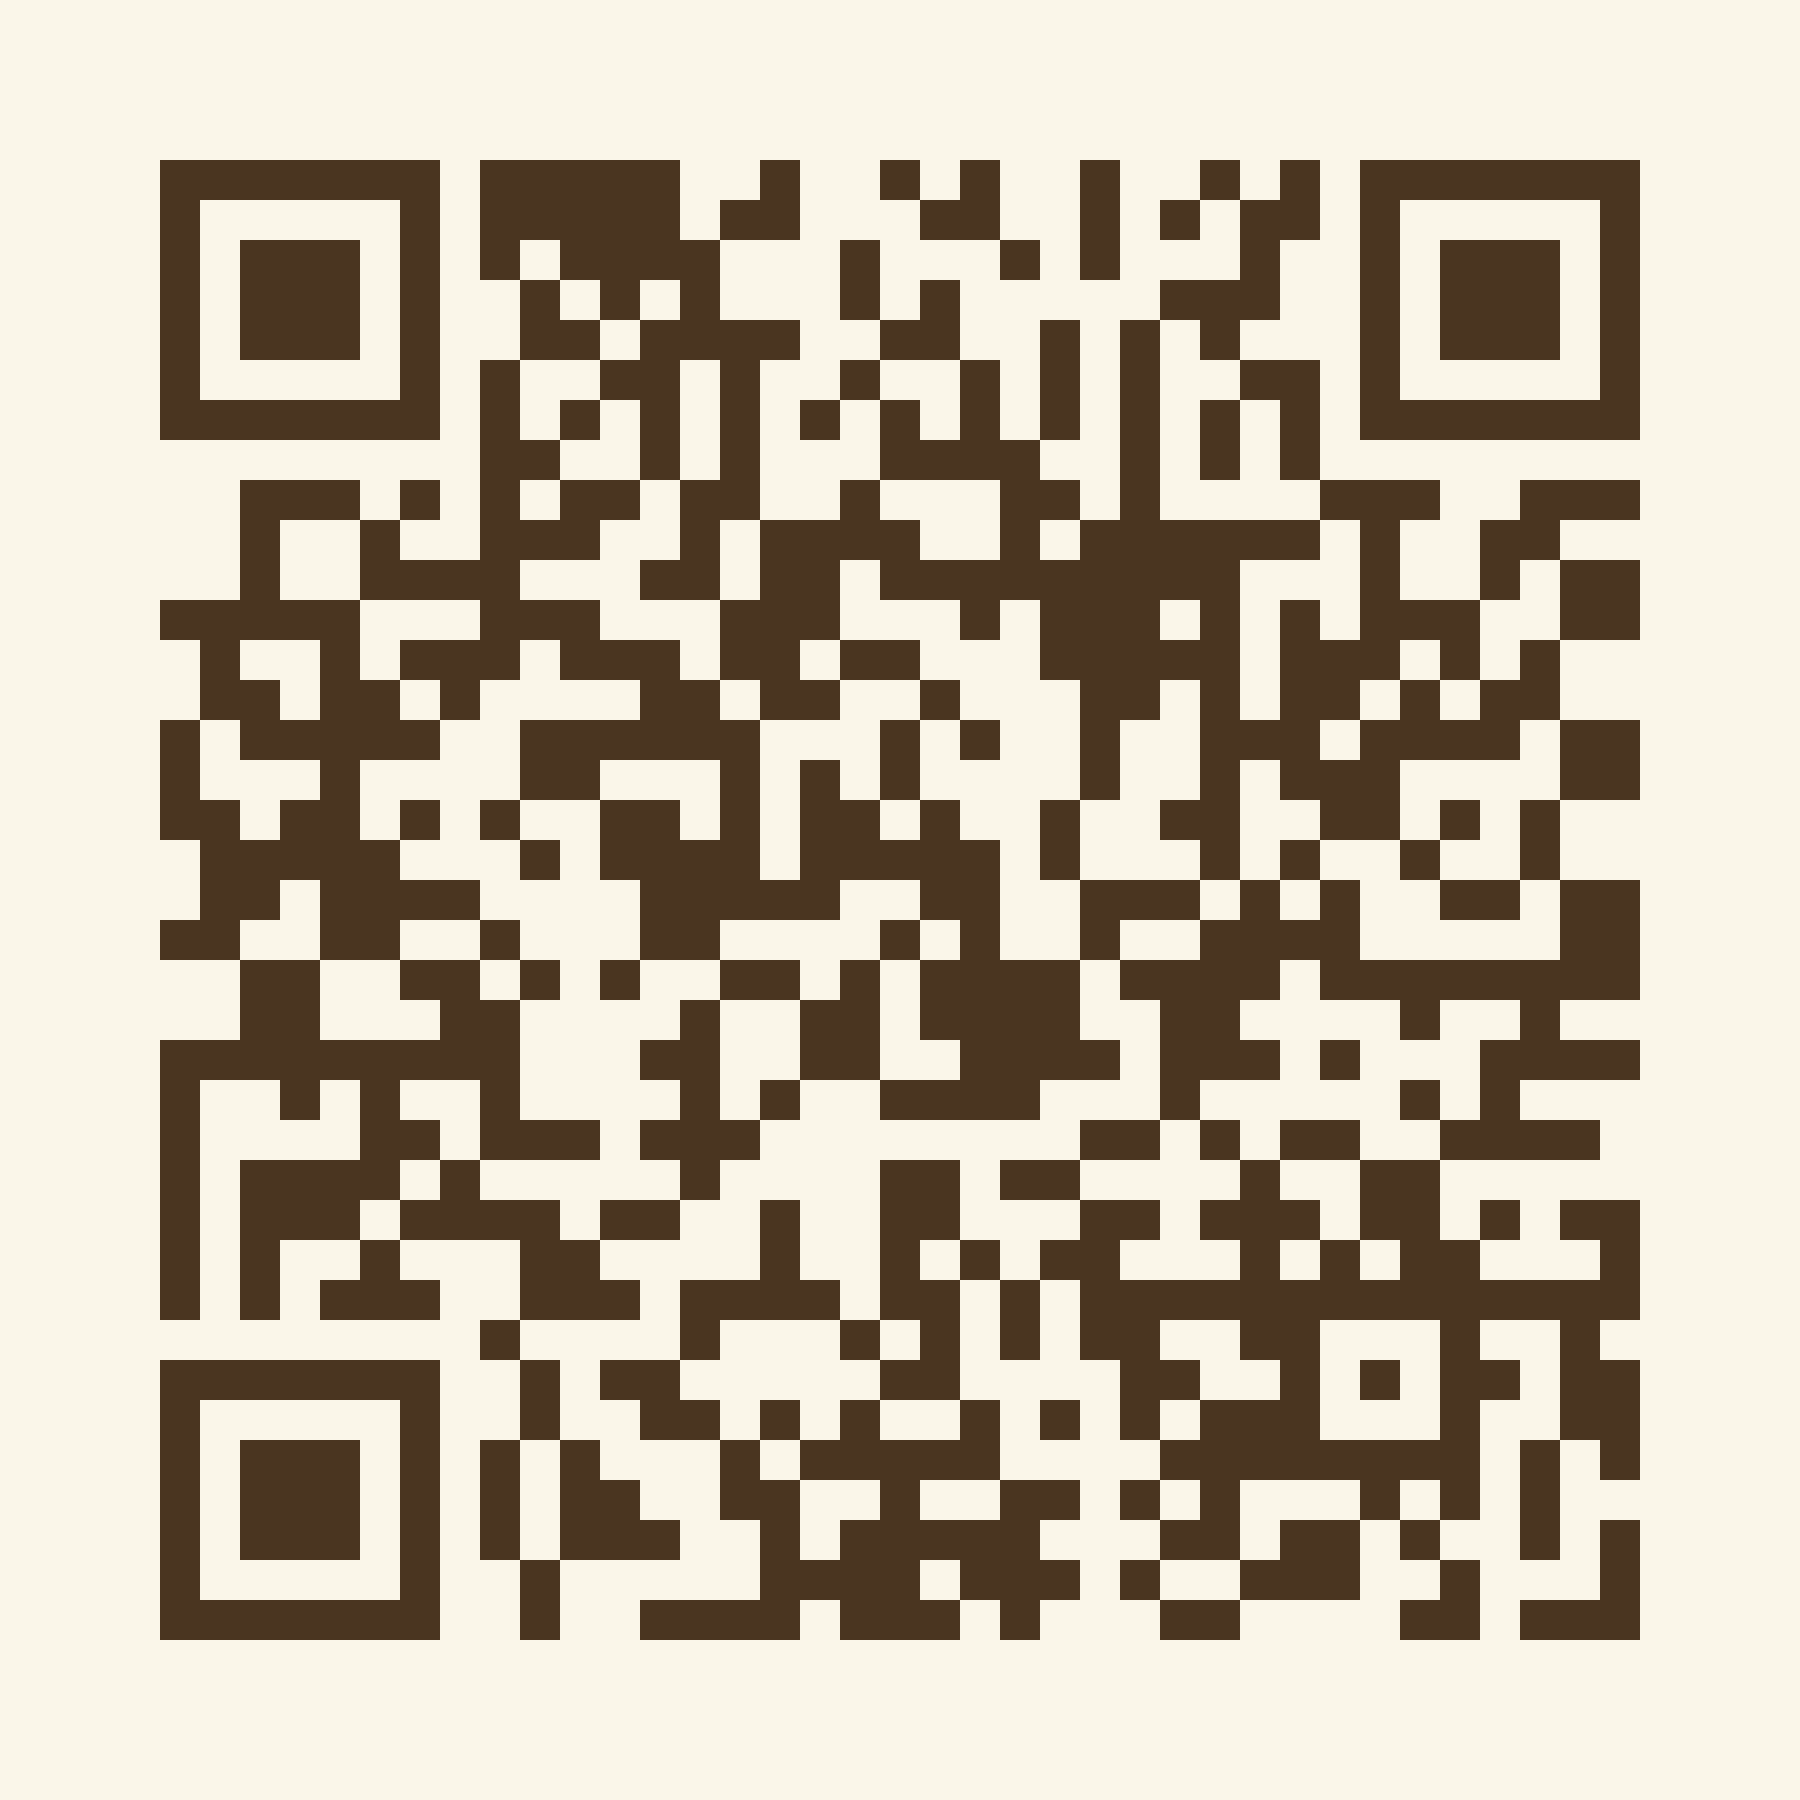
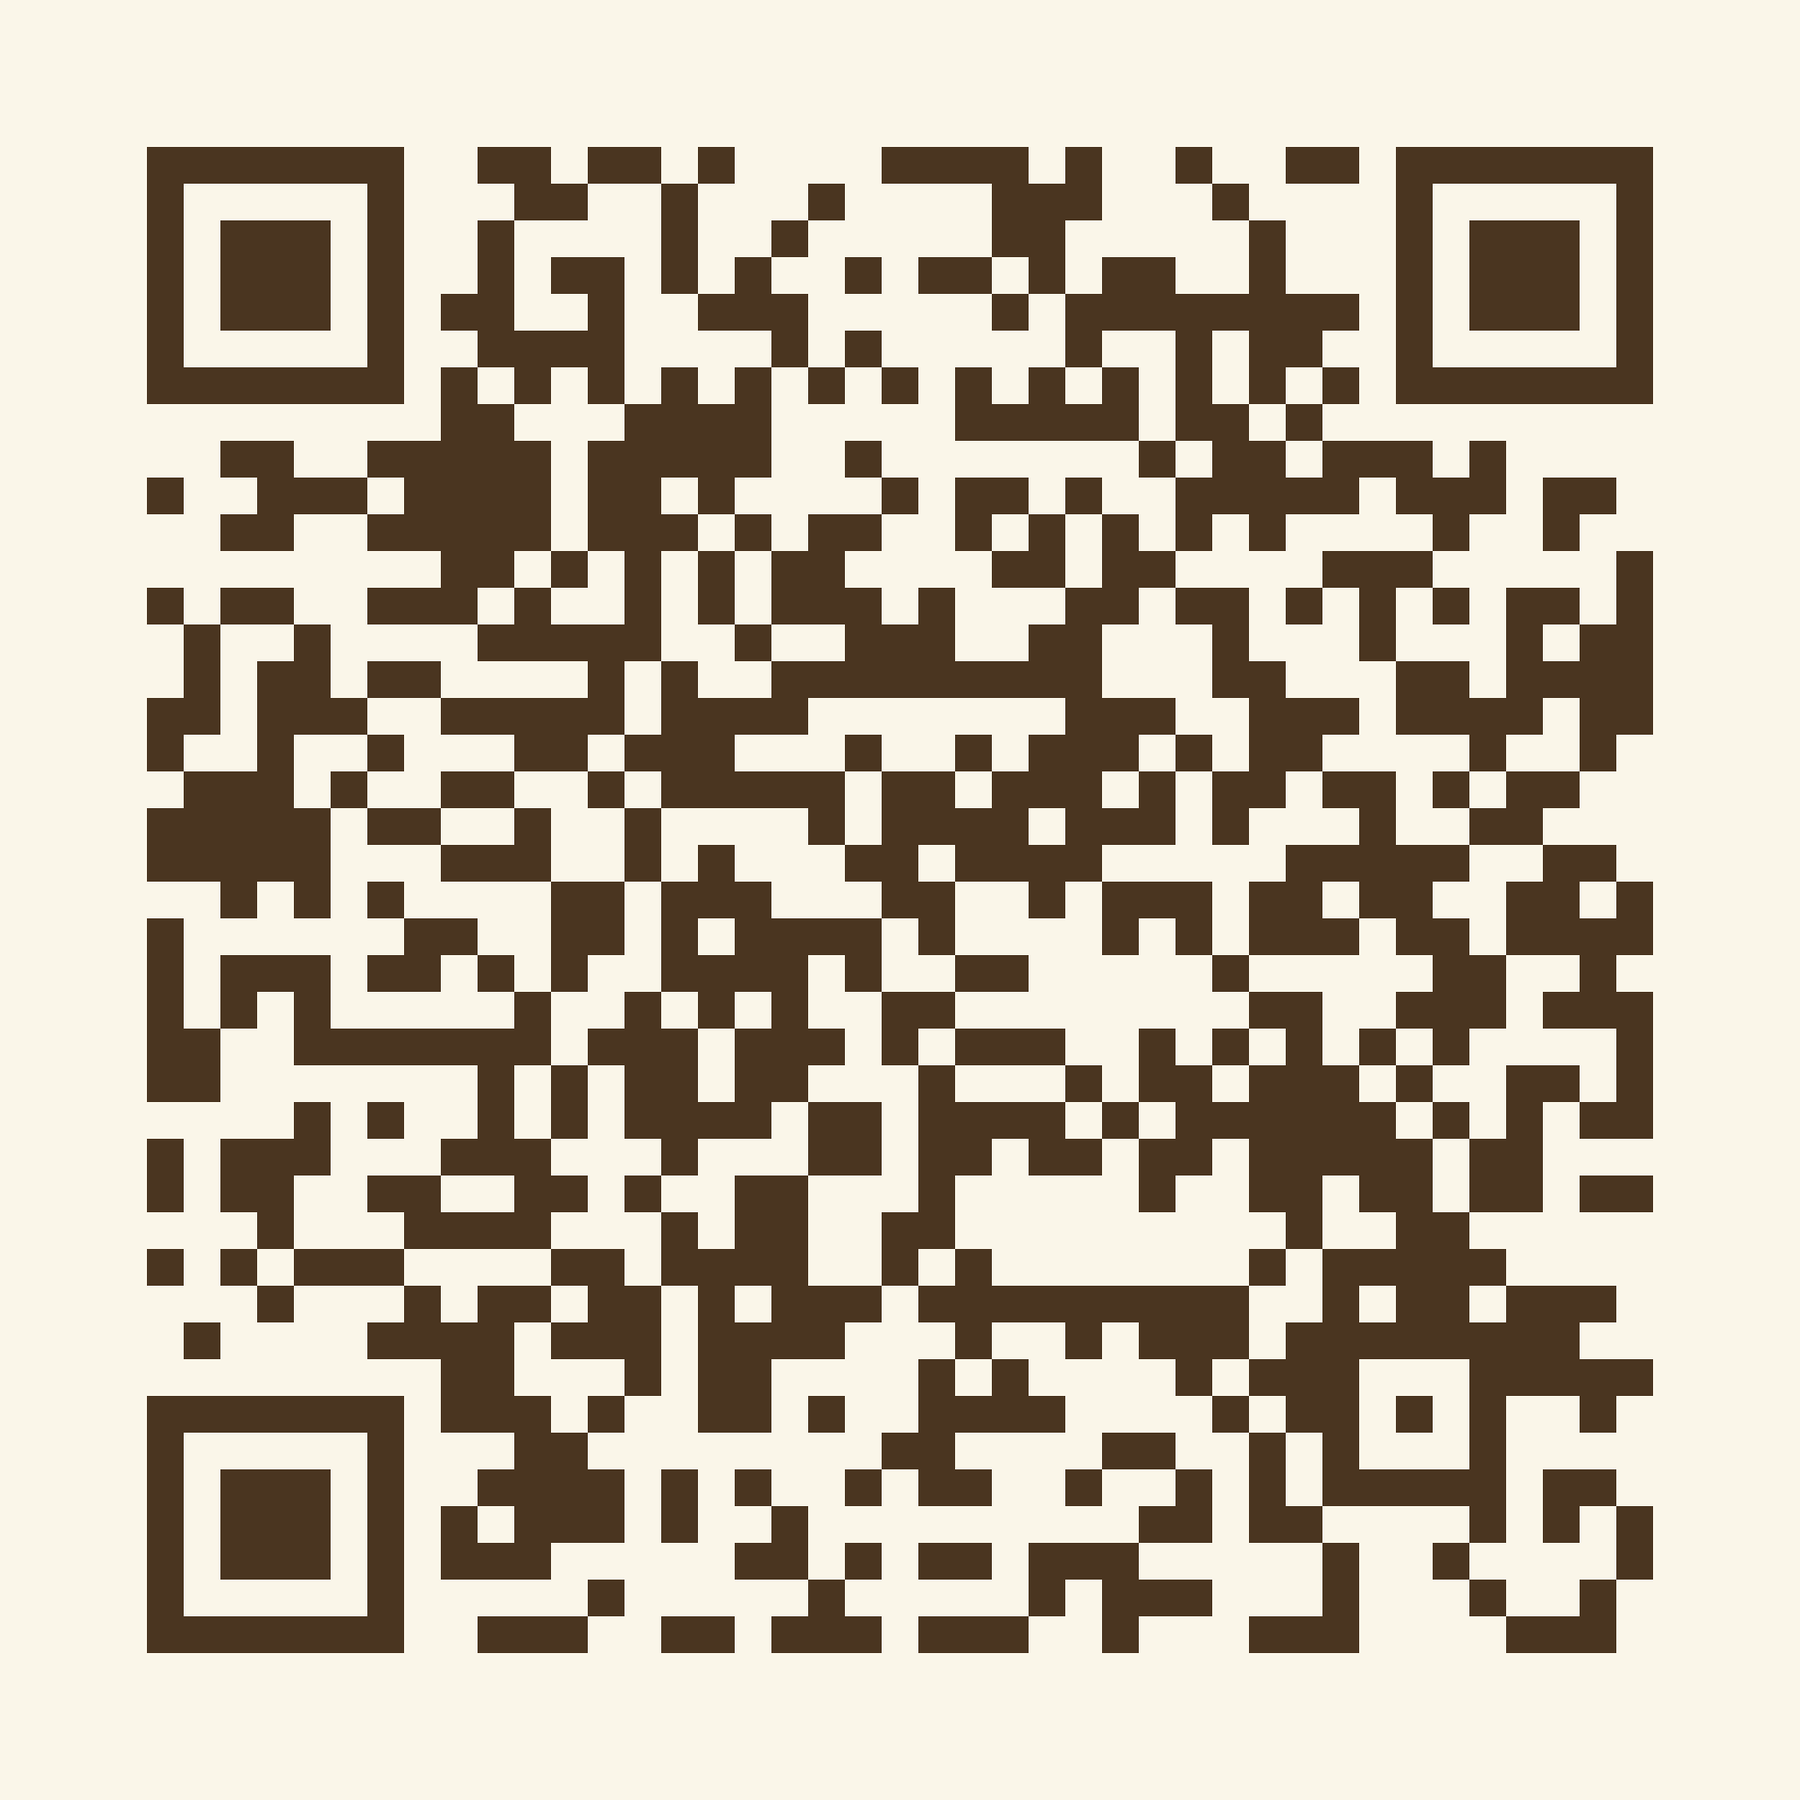
Point RSVP QR code back at the live Netlify address
taylorandaustin.com does not resolve ("server can't be found"), so the
QR code led nowhere. Regenerate the QR (PNG + SVG) and the printed URL
on the card for taylorandaustin.netlify.app/rsvp.html.

Claude-Session: https://claude.ai/code/session_01CRgBxJT6RAQhnBZuCJJqjJ

diff --git a/rsvp-qr.html b/rsvp-qr.html
@@ -87,7 +87,7 @@ body {
   <div class="divider"></div>
   <img class="qr" src="rsvp-qr.svg" alt="QR code linking to the RSVP page">
   <p class="scan">Scan with your phone's camera<br>to respond online</p>
-  <p class="url">taylorandaustin.com/rsvp.html</p>
+  <p class="url">taylorandaustin.netlify.app/rsvp.html</p>
 </div>
 
 <div class="print-hint">
